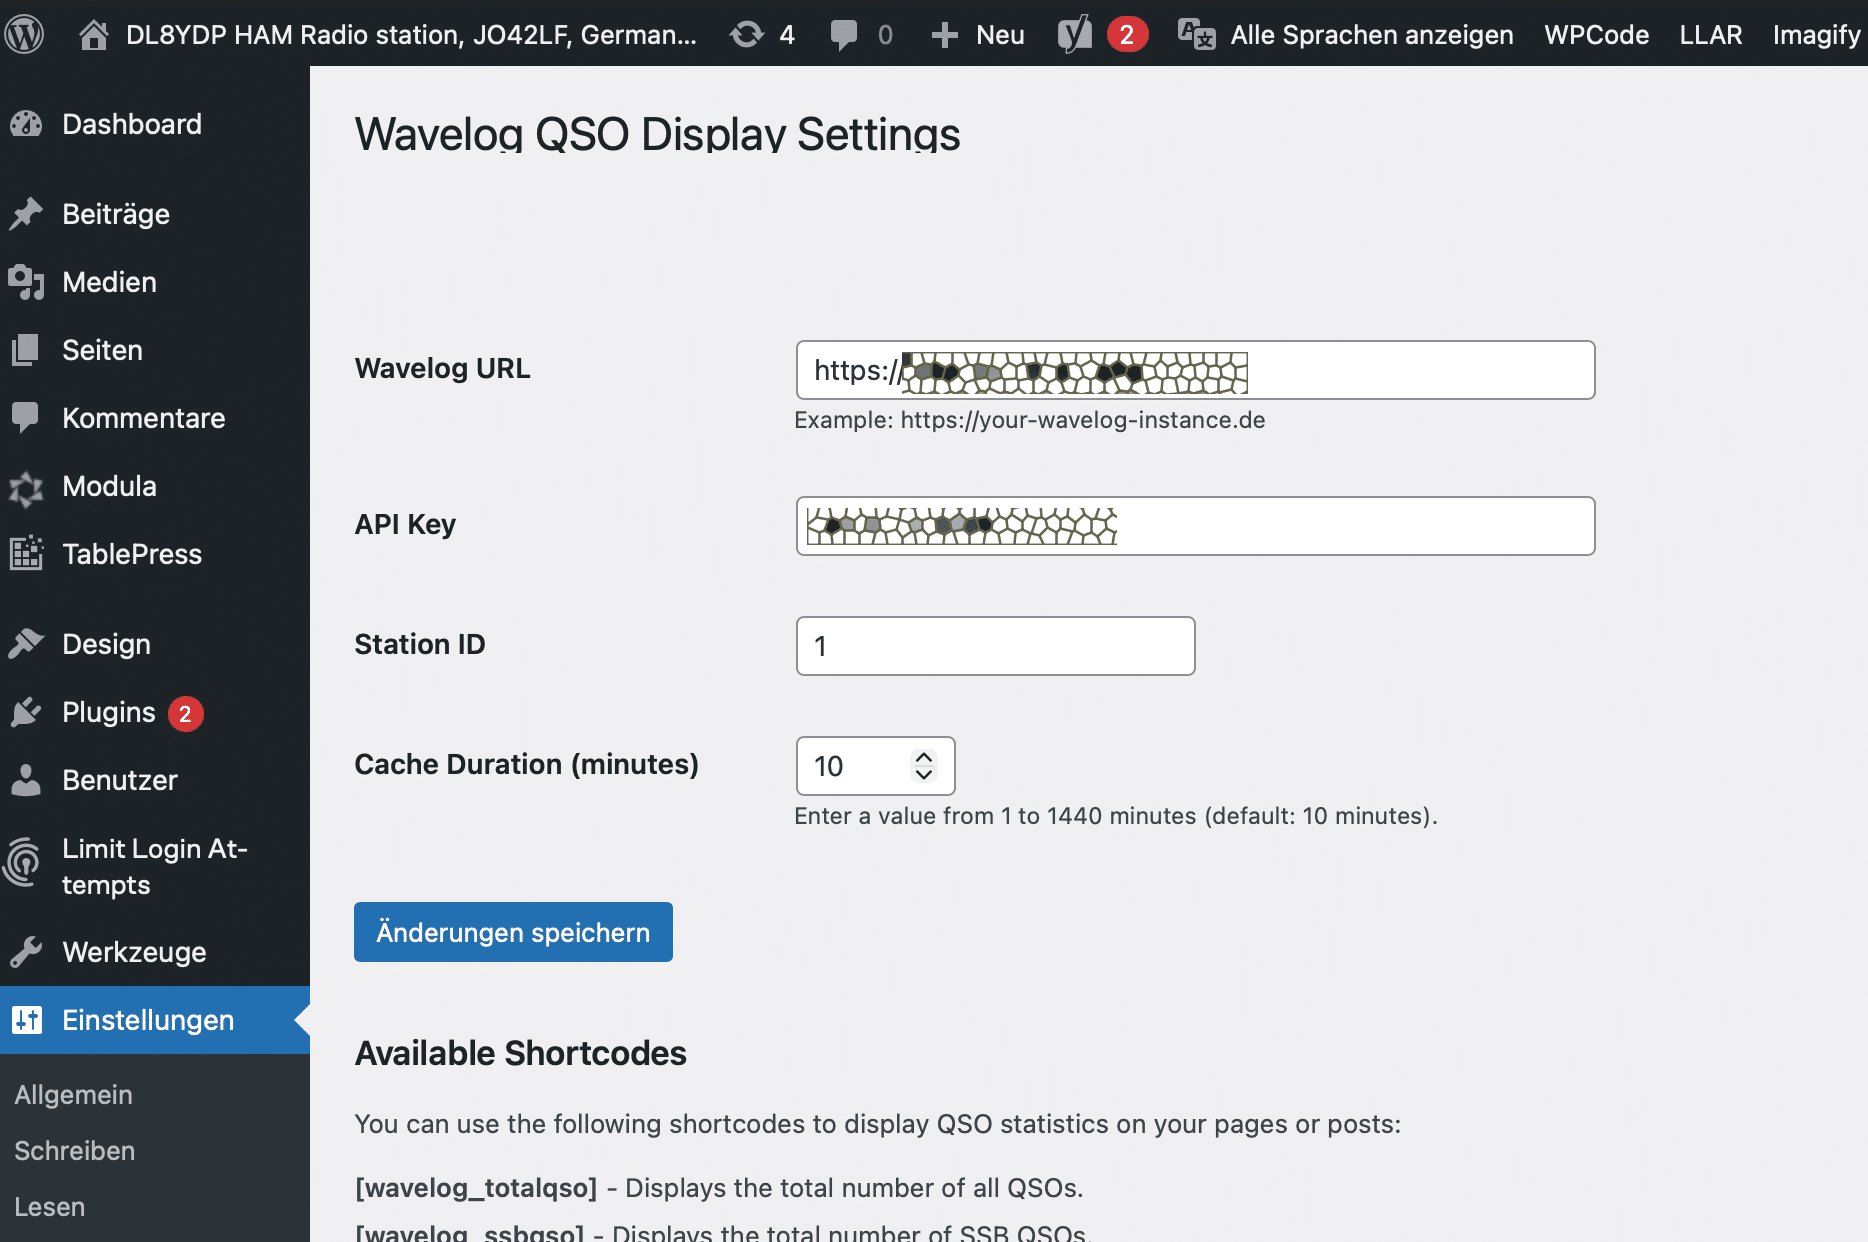
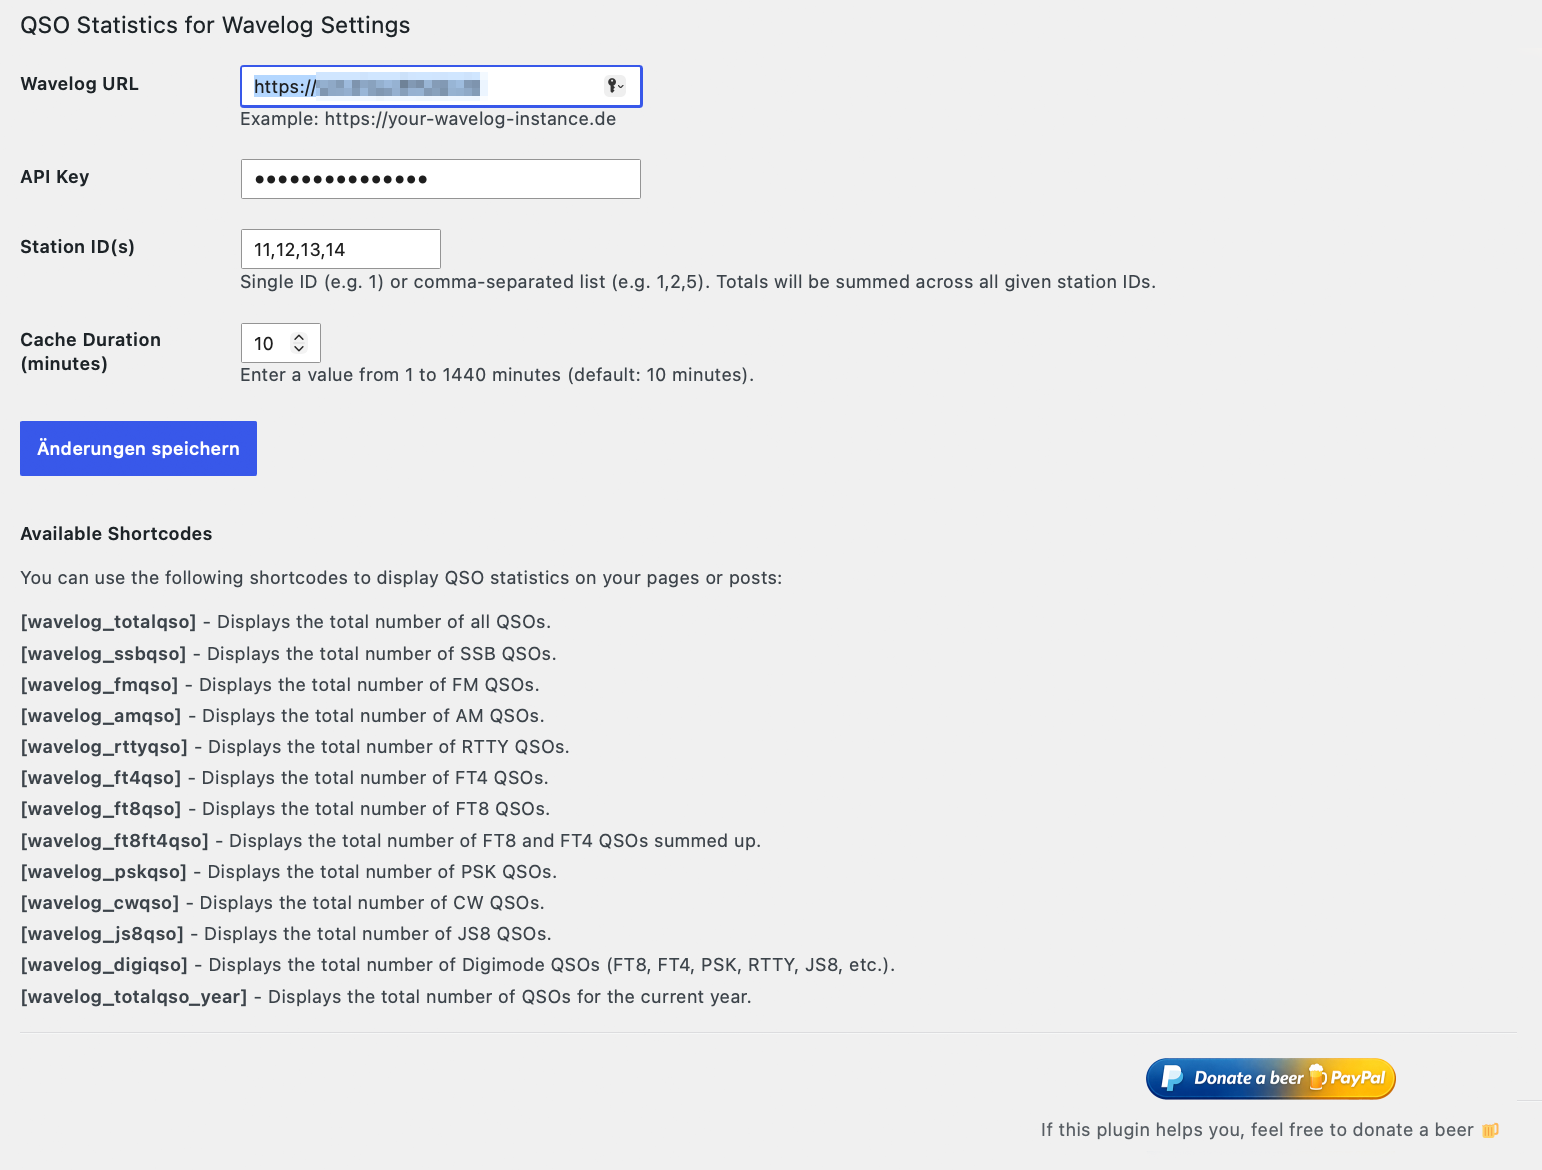
Release 2.4.4: updated settings page screenshot
- Replace screenshot-2 with the current settings page (new title,
  Station ID(s) field; URL obscured, API key masked)
- Add .gitignore for macOS .DS_Store files
- Bump version to 2.4.4 with changelog entries and German translation
  of the new changelog line; no functional changes

diff --git a/wavelog-data-display.php b/wavelog-data-display.php
@@ -3,7 +3,7 @@
 Plugin Name: QSO Statistics for Wavelog
 Plugin URI: https://github.com/HochdruckHummer/wavelog-wp-qso-display
 Description: Retrieves Wavelog data via dedicated Wavelog-Wordpress-API and displays the QSO numbers per QSO type via shortcodes. The Wavelog URL, the API key and the station ID(s) can be configured in the admin area. Station IDs can be comma-separated to aggregate multiple stations.
-Version: 2.4.3
+Version: 2.4.4
 Requires at least: 6.0
 Requires PHP: 8.2
 Author: Daniel Beckemeier, DL8YDP

diff --git a/README.md b/README.md
@@ -67,6 +67,11 @@ You can also use a block, with groups inside to achieve something like this:
 
 ## Changelog
 
+### 2.4.4
+
+- Updated screenshot of the settings page for the WordPress.org plugin page (`.wordpress-org/screenshot-2.png`).
+- No functional changes.
+
 ### 2.4.3
 
 - German banner for the plugin page on de.wordpress.org (`banner-*-de.png` in `.wordpress-org`).
